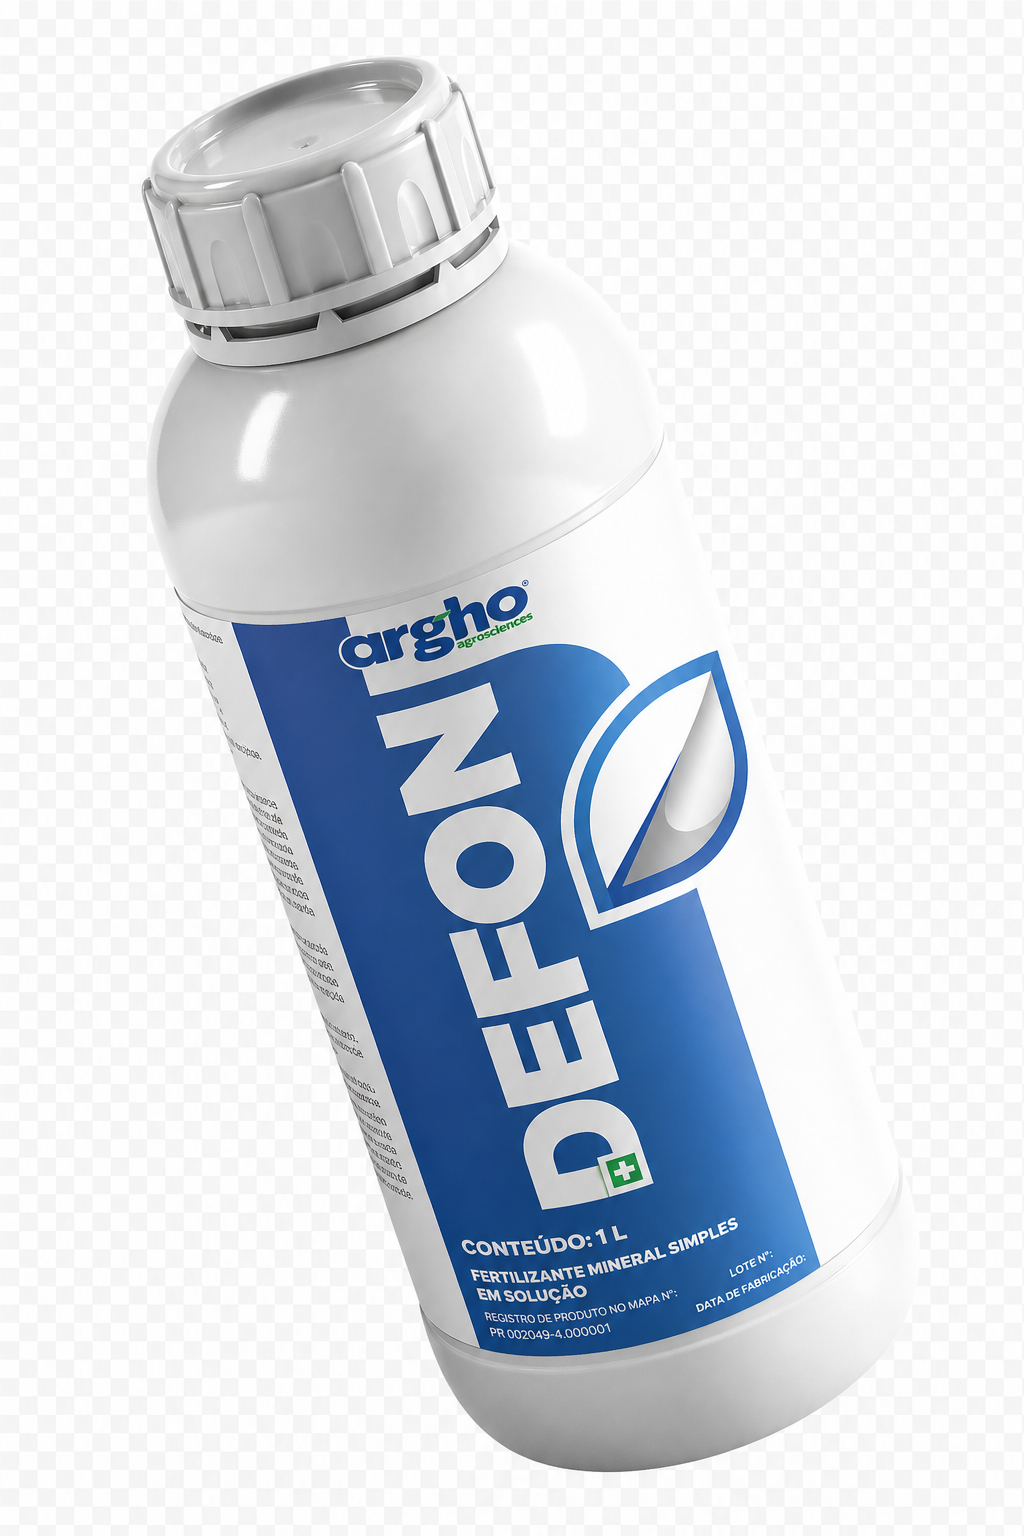
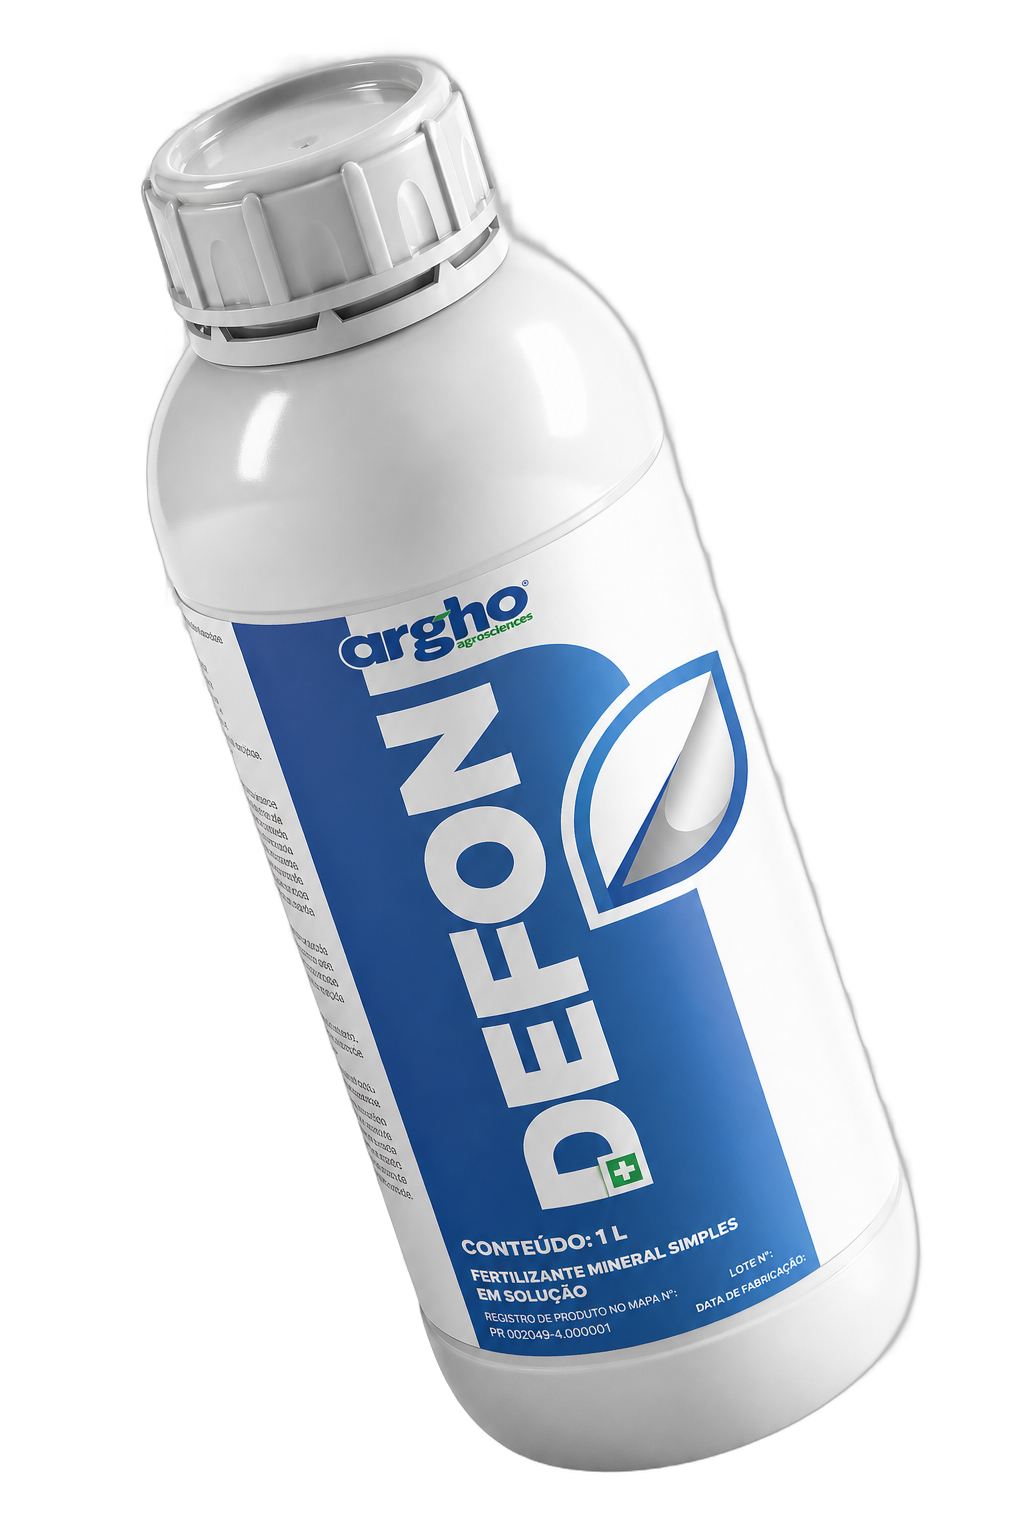
feat(website): processar 14 mockups oficiais com fundo transparente via rembg
Processa todos os PNGs entregues em ARGHO/MARKETING/mockups/NOVOS MOCKUPS
removendo o fundo branco/cinza estúdio e salva versões com alpha
transparente em apps/website/public/products/. Pipeline reproduzível
em scripts/process-mockups.py (rembg + isnet-general-use ONNX model).

Resultado: 22.28 MB → 14.48 MB (35% reducao em tamanho total) com fundo
totalmente transparente — embalagens "flutuam" sobre as superfícies do
site sem quadrado branco/cinza ao redor.

Mockups processados (14):
- biovas        2.36 -> 1.41 MB (59%)
- bovex         1.29 -> 0.90 MB (69%)
- controx       2.38 -> 1.38 MB (58%)
- defon         1.34 -> 0.88 MB (66%)
- grow-calcium  2.21 -> 1.41 MB (64%)
- impuch        1.42 -> 1.10 MB (78%)
- lifeon        1.28 -> 0.72 MB (57%)
- nemax         1.25 -> 0.77 MB (61%)
- operate-4em1  1.23 -> 0.86 MB (70%)
- operate-citronela  1.24 -> 0.81 MB (65%)
- operate-orange     1.36 -> 0.83 MB (61%)
- operate-plus       2.38 -> 1.42 MB (60%)
- stron         1.24 -> 1.13 MB (91%)
- troian        1.30 -> 0.88 MB (67%)

PRODUCT_MOCKUP map (em /produtos e /produtos/[slug]) agora cobre 11
produtos com mockup oficial:
- stron, life-on, impuch, defon, biovas (já cobertos)
- troian, grow-calcium (novos)
- operate-plus, operate-citronela, operate-4em1, operate-orange
  (cada Operate agora tem sua própria embalagem distinta)

Mockups de bovex, controx, nemax foram processados mas não estão no
map porque não existem como slugs em lib/products.ts (precisariam ser
[…]

diff --git a/apps/website/src/app/produtos/[slug]/page.tsx b/apps/website/src/app/produtos/[slug]/page.tsx
@@ -46,6 +46,7 @@ const APP_MODE_LABELS: Record<string, string> = {
 // Max scale for composition bars per type
 const MAX_SCALE = { macro: 40, micro: 10, other: 10 };
 
+// PNGs com fundo transparente processados via rembg (scripts/process-mockups.py).
 // Apenas produtos com mockup oficial atual. Demais usam fallback (letra inicial categórica).
 const PRODUCT_MOCKUP: Record<string, string> = {
   stron: '/products/stron.png',
@@ -53,6 +54,12 @@ const PRODUCT_MOCKUP: Record<string, string> = {
   impuch: '/products/impuch.png',
   defon: '/products/defon.png',
   biovas: '/products/biovas.png',
+  troian: '/products/troian.png',
+  'grow-calcium': '/products/grow-calcium.png',
+  'operate-plus': '/products/operate-plus.png',
+  'operate-citronela': '/products/operate-citronela.png',
+  'operate-4em1': '/products/operate-4em1.png',
+  'operate-orange': '/products/operate-orange.png',
 };
 
 interface PageProps {

diff --git a/apps/website/src/app/produtos/page.tsx b/apps/website/src/app/produtos/page.tsx
@@ -44,6 +44,7 @@ const CAT_LINE: Record<ProductCategory, string> = {
 };
 
 // Product mockup image mapping (slug → public image path)
+// PNGs com fundo transparente processados via rembg (scripts/process-mockups.py).
 // Apenas produtos com mockup oficial atual. Demais usam fallback (letra inicial colorida).
 const PRODUCT_MOCKUP: Record<string, string> = {
   stron: '/products/stron.png',
@@ -51,6 +52,12 @@ const PRODUCT_MOCKUP: Record<string, string> = {
   impuch: '/products/impuch.png',
   defon: '/products/defon.png',
   biovas: '/products/biovas.png',
+  troian: '/products/troian.png',
+  'grow-calcium': '/products/grow-calcium.png',
+  'operate-plus': '/products/operate-plus.png',
+  'operate-citronela': '/products/operate-citronela.png',
+  'operate-4em1': '/products/operate-4em1.png',
+  'operate-orange': '/products/operate-orange.png',
 };
 
 interface PageProps {

diff --git a/scripts/process-mockups.py b/scripts/process-mockups.py
@@ -1,0 +1,89 @@
+"""
+Processa mockups oficiais Argho da pasta NOVOS MOCKUPS.
+Remove fundo branco/cinza via rembg + salva PNG transparente em apps/website/public/products/.
+
+Mapping: arquivo → slug do produto (espelho do products.ts)
+Mockups sem produto correspondente em products.ts são processados mas
+salvos com nome em kebab-case para uso futuro.
+"""
+import sys
+import time
+from pathlib import Path
+
+from PIL import Image
+from rembg import remove, new_session
+
+SRC_DIR = Path(r"C:\Users\Usuario\Desktop\ARGHO AGROSCIENCES\MARKETING\mockups\NOVOS MOCKUPS")
+DST_DIR = Path(r"C:\Users\Usuario\Desktop\colheita\apps\website\public\products")
+
+# Filename → product slug
+MAPPING = {
+    "BIOVAS- 1L.png": "biovas",
+    "BOVEX - 1L.png": "bovex",
+    "CONTROX - 1L.png": "controx",
+    "DEFON - 1L.png": "defon",
+    "GROW CALCIUM - 1L.png": "grow-calcium",
+    "Impuch - 1L.png": "impuch",
+    "LIFEON - 1L.png": "lifeon",  # slug do produto é 'life-on' mas arquivo fica 'lifeon.png' por convenção da app
+    "NEMAX - 1L.png": "nemax",
+    "OPERATE 4EM1 - 1L.png": "operate-4em1",
+    "OPERATE CITRONELA - 1L.png": "operate-citronela",
+    "OPERATE ORANGE - 1L.png": "operate-orange",
+    "OPERATE PLUS - 1L.png": "operate-plus",
+    "STRON - 1L.png": "stron",
+    "TROIAN - 1L.png": "troian",
+}
+
+def process(session, src: Path, dst: Path) -> tuple[int, int]:
+    """Process one image. Returns (input_size, output_size) in bytes."""
+    in_size = src.stat().st_size
+    img = Image.open(src)
+    if img.mode != "RGBA":
+        img = img.convert("RGBA")
+    cut = remove(img, session=session)
+    # Optimize: convert palette if mostly transparent and quantize
+    cut.save(dst, format="PNG", optimize=True, compress_level=9)
+    out_size = dst.stat().st_size
+    return in_size, out_size
+
+def main():
+    if not SRC_DIR.exists():
+        print(f"ERRO: pasta de origem não existe: {SRC_DIR}", file=sys.stderr)
+        sys.exit(1)
+    DST_DIR.mkdir(parents=True, exist_ok=True)
+
+    # Use the smaller, faster general-purpose model
+    print("Carregando modelo isnet-general-use…")
+    session = new_session("isnet-general-use")
+    print("Modelo pronto.")
+
+    total_in = 0
+    total_out = 0
+    processed = 0
+    for filename, slug in MAPPING.items():
+        src = SRC_DIR / filename
+        dst = DST_DIR / f"{slug}.png"
+        if not src.exists():
+            print(f"  ! arquivo não encontrado: {filename} (slug {slug})")
+            continue
+        t0 = time.time()
+        try:
+            in_size, out_size = process(session, src, dst)
+        except Exception as e:
+            print(f"  ! erro processando {filename}: {e}")
+            continue
+        dt = time.time() - t0
+        total_in += in_size
+        total_out += out_size
+        processed += 1
+        ratio = (out_size / in_size) * 100
+        print(f"  ✓ {slug:22s} {in_size/1024/1024:5.2f}MB -> {out_size/1024/1024:5.2f}MB ({ratio:5.1f}%)  {dt:5.1f}s")
+
+    print()
+    print(f"Total: {processed}/{len(MAPPING)} arquivos.")
+    print(f"Input:  {total_in/1024/1024:6.2f} MB")
+    print(f"Output: {total_out/1024/1024:6.2f} MB")
+    print(f"Saved:  {(total_in - total_out)/1024/1024:+6.2f} MB ({100 - (total_out/total_in)*100:.1f}% reduction)")
+
+if __name__ == "__main__":
+    main()
